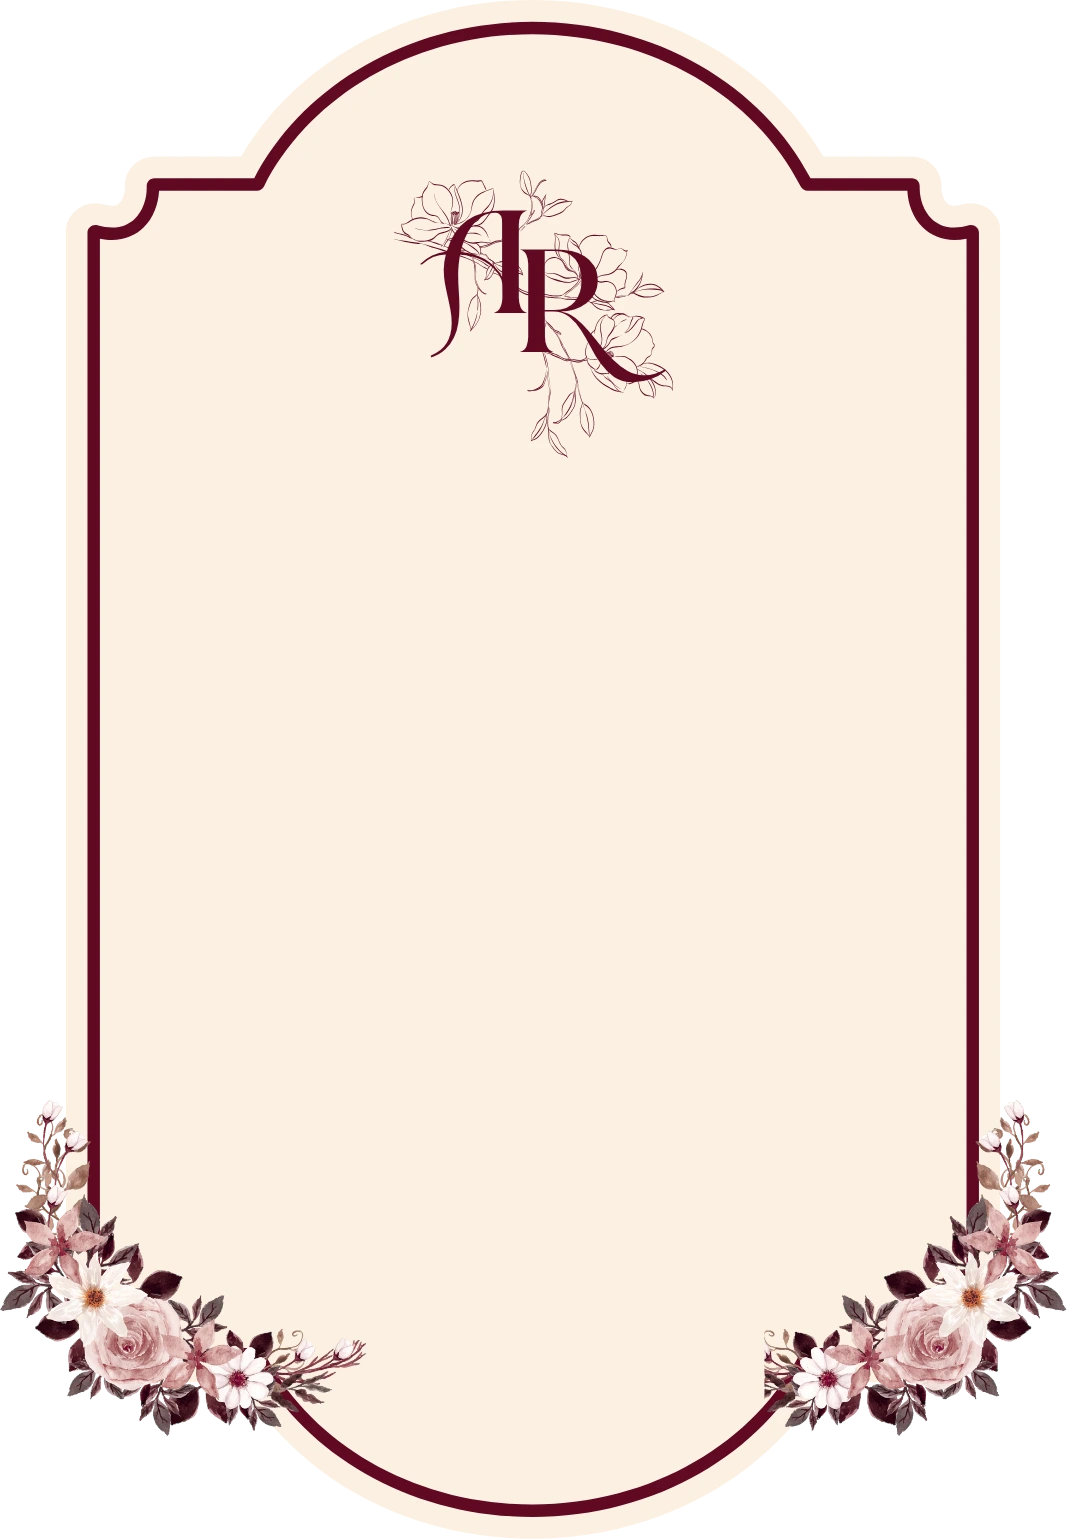
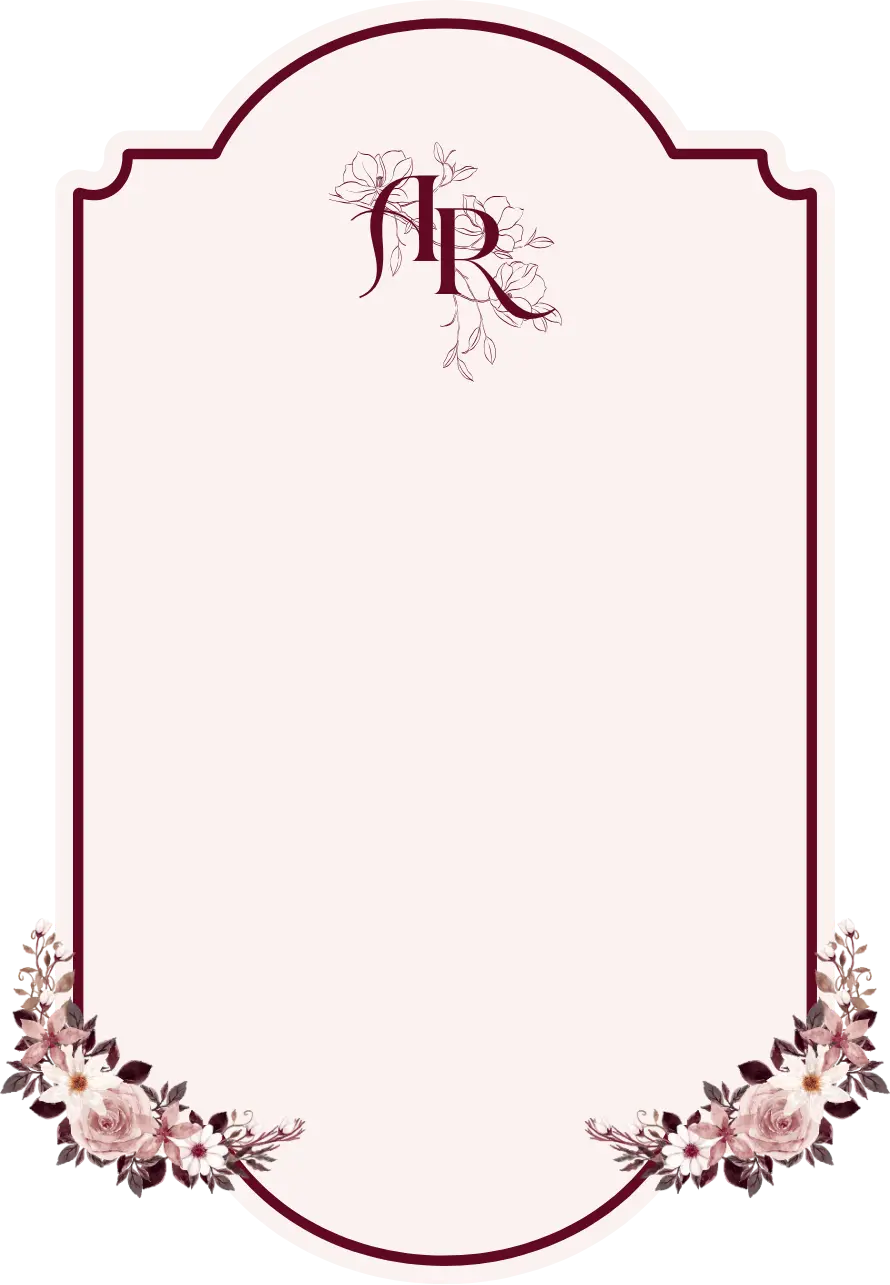
update background position  in introsection

diff --git a/src/modules/IntroSection.tsx b/src/modules/IntroSection.tsx
@@ -2,6 +2,7 @@
 
 import { MailOpenIcon } from "lucide-react";
 import { motion } from "motion/react";
+import Image from "next/image";
 import { useSearchParams } from "next/navigation";
 import { Button } from "~/components/ui/button";
 import Smoke from "~/components/ui/shadcn-io/smoke";
@@ -23,6 +24,7 @@ export default function IntroSection({
   const guestName =
     decodedGuestName ?? (searchParams.get("to") || "Tamu Terhormat");
   const displayGuestName = decodeURIComponent(guestName.replace(/\+/g, " "));
+
   return (
     <div className="h-dvh w-full mx-auto bg-primary flex flex-col items-center justify-center relative overflow-hidden">
       <div className="absolute inset-0 pointer-events-none z-0 mask-b-from-30% mask-b-to-90%">
@@ -43,9 +45,86 @@ export default function IntroSection({
           delay: 0.2,
           ease: [0, 0.71, 0.2, 1.01],
         }}
-        className="absolute inset-0 bg-[url('/background.webp')] bg-[length:360px_auto] bg-[position:center_calc(100%_-_100px)] bg-no-repeat"
-      />
-      <motion.div
+        className="absolute bottom-10 w-[min(100%,800px)] max-h-[calc(100dvh-80px)] left-1/2 -translate-x-1/2 flex items-center justify-center"
+      >
+        <div
+          className="relative w-full"
+          style={{ maxHeight: "calc(100dvh - 80px)" }}
+        >
+          <Image
+            src="/background.webp"
+            alt="Background"
+            width={890}
+            height={1285}
+            className="w-full h-auto object-contain"
+            style={{
+              maxHeight: "calc(100dvh - 80px)",
+            }}
+            priority
+          />
+          <motion.div
+            initial={{ y: 600 }}
+            animate={{ y: 0 }}
+            transition={{
+              duration: 1,
+              delay: 2,
+              ease: [0, 0.71, 0.2, 1.01],
+            }}
+            className="absolute left-0 right-0 -bottom-10 h-[35%] bg-[url('/rumah-gadang.webp')] bg-contain bg-bottom bg-no-repeat"
+          />
+        </div>
+
+        <motion.div
+          initial={{ opacity: 0 }}
+          animate={{ opacity: 1 }}
+          transition={{ duration: 1, delay: 1.5 }}
+          className="absolute z-10 flex flex-col gap-6 items-center text-center px-6 max-w-md"
+        >
+          <motion.div
+            initial={{ y: 20, opacity: 0 }}
+            animate={{ y: 0, opacity: 1 }}
+            transition={{ delay: 0.6, duration: 0.8 }}
+          >
+            <p className="text-primary font-be-vietnam-pro text-xs lg:text-base tracking-widest uppercase">
+              Undangan Pernikahan
+            </p>
+            <h1 className="text-5xl md:text-7xl font-hello-paris font-bold text-primary tracking-tighter mb-2">
+              {config.couple.brideName} & {config.couple.groomName}
+            </h1>
+            <p className="text-primary text-sm lg:text-base tracking-widest">
+              {formatWeddingDate(config.event.date)}
+            </p>
+          </motion.div>
+
+          <motion.div
+            initial={{ y: 20, opacity: 0 }}
+            animate={{ y: 0, opacity: 1 }}
+            transition={{ delay: 0.9, duration: 0.8 }}
+          >
+            {useGuestName && (
+              <div className="flex flex-col items-center justify-center gap-1 mb-2 px-4">
+                <span className="text-primary">
+                  Kepada Bapak/Ibu/Saudara/i{" "}
+                </span>
+                <span className="font-semibold text-primary">
+                  {displayGuestName}
+                </span>
+              </div>
+            )}
+
+            <motion.div whileHover={{ scale: 1.05 }} whileTap={{ scale: 0.95 }}>
+              <Button
+                onClick={onOpenInvitation ?? (() => {})}
+                className="bg-primary hover:bg-primary/70 text-muted font-semibold !px-7 py-5 rounded-full text-sm md:text-md tracking-wider"
+              >
+                <MailOpenIcon color="var(--muted)" />
+                Buka Undangan
+              </Button>
+            </motion.div>
+          </motion.div>
+        </motion.div>
+      </motion.div>
+      {/* <motion.div
         initial={{ y: 600 }}
         animate={{ y: 0 }}
         transition={{
@@ -53,62 +132,8 @@ export default function IntroSection({
           delay: 2,
           ease: [0, 0.71, 0.2, 1.01],
         }}
-        className="absolute left-0 right-0 bottom-0 h-[250px] bg-[url('/rumah-gadang.webp')] bg-[length:400px_auto] bg-center bg-bottom bg-no-repeat"
-      />
-      <motion.div
-        initial={{ opacity: 0 }}
-        animate={{ opacity: 1 }}
-        transition={{ duration: 1, delay: 1.5 }}
-        className="absolute w-full z-10 flex flex-col gap-4 items-center text-center px-6 max-w-md"
-        style={{ 
-          bottom: '17em',
-          left: '50%',
-          transform: 'translateX(-50%)',
-          justifyContent: 'flex-start',
-          alignItems: 'center'
-        }}
-      >
-        <motion.div
-          initial={{ y: 20, opacity: 0 }}
-          animate={{ y: 0, opacity: 1 }}
-          transition={{ delay: 0.6, duration: 0.8 }}
-        >
-          <p className="text-primary font-be-vietnam-pro text-xs tracking-widest uppercase">
-            Undangan Pernikahan
-          </p>
-          <h1 className="text-5xl font-hello-paris font-bold text-primary tracking-tighter mb-2">
-            {config.couple.brideName} & {config.couple.groomName}
-          </h1>
-          <p className="text-primary text-sm tracking-widest">
-            {formatWeddingDate(config.event.date)}
-          </p>
-        </motion.div>
-
-        <motion.div
-          initial={{ y: 20, opacity: 0 }}
-          animate={{ y: 0, opacity: 1 }}
-          transition={{ delay: 0.9, duration: 0.8 }}
-        >
-          {useGuestName && (
-            <div className="flex flex-col items-center justify-center gap-1 mb-2">
-              <span className="text-primary">
-                Kepada Bapak/Ibu/Saudara/i{" "}
-              </span>
-              <span className="font-semibold text-primary">{displayGuestName}</span>
-            </div>
-          )}
-
-          <motion.div whileHover={{ scale: 1.05 }} whileTap={{ scale: 0.95 }}>
-            <Button
-              onClick={onOpenInvitation ?? (() => {})}
-              className="bg-primary hover:bg-primary/70 text-muted font-semibold !px-7 py-5 rounded-full text-sm md:text-md tracking-wider"
-            >
-              <MailOpenIcon color="var(--muted)" />
-              Buka Undangan
-            </Button>
-          </motion.div>
-        </motion.div>
-      </motion.div>
+        className="absolute left-0 right-0 bottom-0 h-[30dvh] bg-[url('/rumah-gadang.webp')] bg-contain bg-bottom bg-no-repeat"
+      /> */}
     </div>
   );
 }

diff --git a/src/app/page.tsx b/src/app/page.tsx
@@ -167,7 +167,7 @@ function HomeContent() {
 
   if (!showInvitation) {
     return (
-      <IntroSection decodedGuestName={decodedGuestName} onOpenInvitation={openInvitation} useGuestName={false} />
+      <IntroSection decodedGuestName={decodedGuestName} onOpenInvitation={openInvitation} useGuestName={true} />
     );
   }
   return (
